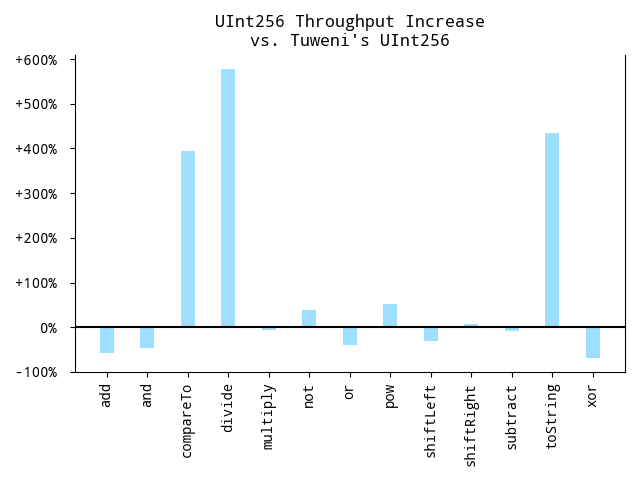
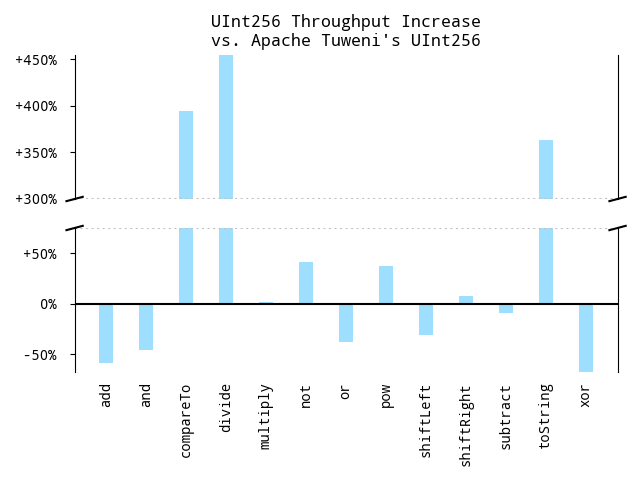
Benchmark article

diff --git a/split-graph.py b/split-graph.py
@@ -53,10 +53,10 @@ if __name__ == '__main__':
     ax.spines['bottom'].set_visible(False)
     ax.spines['top']   .set_visible(False)
 
-  axhi.tick_params(labeltop='off', top='off', bottom='off')
+  axhi.tick_params(labeltop=False, top=False, bottom=False)
 
-  axlo.set_ylim((mmin, 50))
-  axhi.set_ylim((200,  mmax))
+  axlo.set_ylim((mmin, 75))
+  axhi.set_ylim((300,  mmax))
 
   rects = []
   for (i, (tag, xs)) in enumerate(sorted(data.items(), key=lambda t: t[0])):
@@ -65,8 +65,8 @@ if __name__ == '__main__':
     axhi.bar(ind + (i * width), list(zip(*xs))[1], width, color=color)
     rects.append((r, tag))
 
-  axhi.set_title("UInt256 Throughput Increase\nvs. OpenJDK's BigInteger")
-  axlo.set_xticks(ind + width / 2)
+  axhi.set_title("UInt256 Throughput Increase\nvs. Apache Tuweni's UInt256")
+  axlo.set_xticks(ind)
   axlo.set_xticklabels([k for (k, _) in list(data.values())[0]], rotation=90)
 
   def yformat(v, pos):
@@ -76,14 +76,11 @@ if __name__ == '__main__':
     ax.yaxis.set_major_formatter(ticker.FuncFormatter(yformat))
     ax.tick_params(axis='y', left='off')
 
-  axlo.tick_params(axis='x', bottom='off', top=False)
-  axhi.legend(
-    *list(zip(*tuple((r[0], l) for (r, l) in rects))),
-    frameon=False)
+  axlo.tick_params(axis='x', bottom=False, top=False)
 
   axlo.axhline(0, color='k')
-  axlo.axhline(50, linestyle=':', color='silver')
-  axhi.axhline(200, linestyle=':', color='silver')
+  axlo.axhline(75, linestyle=':', color='silver')
+  axhi.axhline(300, linestyle=':', color='silver')
 
   d  = .015
   kw = dict(transform=axhi.transAxes, color='k', clip_on=False)

diff --git a/biginteger-performance.md b/biginteger-performance.md
@@ -32,7 +32,7 @@ be a problem.
 
 Each bar is an aggregate of around 10 JMH microbenchmarks (170 altogether) per
 operation, performed with numbers of different magnitudes. With the generosity
-of a dying aunt, I only % 2<sup>256</sup> the `BigInteger`instance when it's known that
+of a dying aunt, I only mod 2<sup>256</sup> the `BigInteger`instance when it's known that
 it's exceeeded the desired capacity &mdash; mostly not how things work in
 real life, when dealing with arbitrary values. So, these are worst-case
 speedups.
@@ -143,9 +143,9 @@ public class BigInteger extends Number implements Comparable<BigInteger> {
 If the bit is out of bounds, and I'm reading right, it's _growing_ the integer
 array to a size bounded by 2<sup>32</sup> / 32 (approx 10<sup>8</sup>, the biblical lower
 bound on the number of angels[^1]), to
-"clear" a bit which wouldn't otherwise exist? Then stripping all of the leading
+"clear" a bit which wouldn't otherwise exist &mdash; then stripping all of the leading
 zeroes in the `int[]` constructor used by `valueOf`, resulting in exactly the
-same number! Absolutely classic stuff. I was keen to see how OpenJDK 19 had sped
+same number! You don't see this kind of thing every day, top class stuff. I was keen to see how OpenJDK 19 had sped
 this up, but it's doing _exactly_ the same thing! The speedup must come from
 some ancillary method/s (e.g. `getInt`, `valueOf`, etc.), overall runtime
 optimizations, or some combination. Pandaemonium.  Let's take a look at throughput graph
@@ -215,7 +215,8 @@ final class Arrays {
 In general, there are some speedups to be had by closely coupling the
 zero-stripping code with the array arithmetic, as we often know accidentally
 (e.g. if there's a carry left over), or with a cheap check, whether we need to
-scan for leading zeroes or not (as we saw with `clearBit`.  We use this to our advantage in `flipBit`, also, and gain a `150%+` speedup:
+scan for leading zeroes or not (as we saw with `clearBit`. We use this to our
+advantage in `flipBit`, also, and gain a `150%+` speedup:
 
 ```java
 final class Arrays {
@@ -248,7 +249,7 @@ take a look at `toString`.
 
 `toString` accepts a radix in which to represent the number, so it does a bunch
 of `divideAndRemainder` calls, and despite both implementing Knuth's Algorithm
-D, division is substantially faster in `UInt256`, which probably accounts for a
+D, division is substantially faster in `UInt256` &mdash; which probably accounts for a
 large degree of the disparity.
 
 ```java
@@ -273,7 +274,7 @@ public abstract class UInt<T extends UInt>
 }
 ```
 
-I think these length checks, absent in `BigInteger` probably account for the
+I think these length checks (absent in `BigInteger`) probably account for the
 rest, in the lower-magnitude test cases. `BigInteger` immediately falls back to
 Schoenhage radix conversion if the number within some range (2<sup>256</sup> is
 comfortably within this range), which is what `StringUtil.toString` does, above.
@@ -306,11 +307,12 @@ public final class UInt256 implements UInt256Value<UInt256> {
 ```
 
 are trivial to unroll, and it seems unconcerned, generally, with leading zeroes.
-This comes at some cost &mdash; if you wanted to implement
-`UInt512`, you'd have to copy and paste all of this code.  Although, I'll happily
-take some 20%-50% losses along with some 400%-600% gains.
+This comes at some cost &mdash; if you wanted to implement `UInt512`, you'd have
+to copy and paste all of this code. Although, against that trade-off, I'll
+happily take some 25%-50% losses along with some 300%-450% gains.
 
-Thanks for reading.  FIN.
-<p align="center">
-<a href="https://github.com/nervous-systems/java-unsigned-integers"><img width="100px" src="static/github-mark.png"/></a>
-</p>
+Thanks for reading! Open an issue or a PR if you have ideas about further
+speedups.
+<p align="center"> <a
+href="https://github.com/nervous-systems/java-unsigned-integers"><img
+width="100px" src="static/github-mark.png"/></a> </p>
